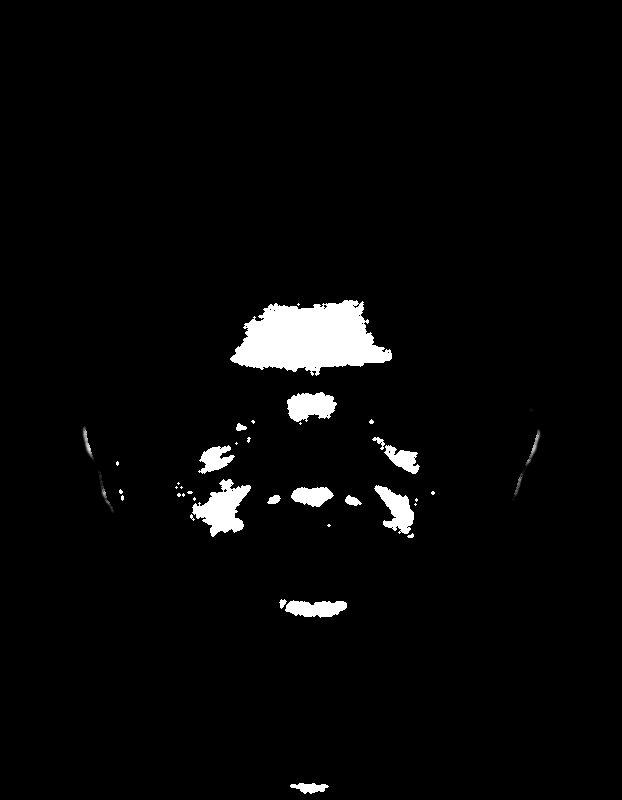
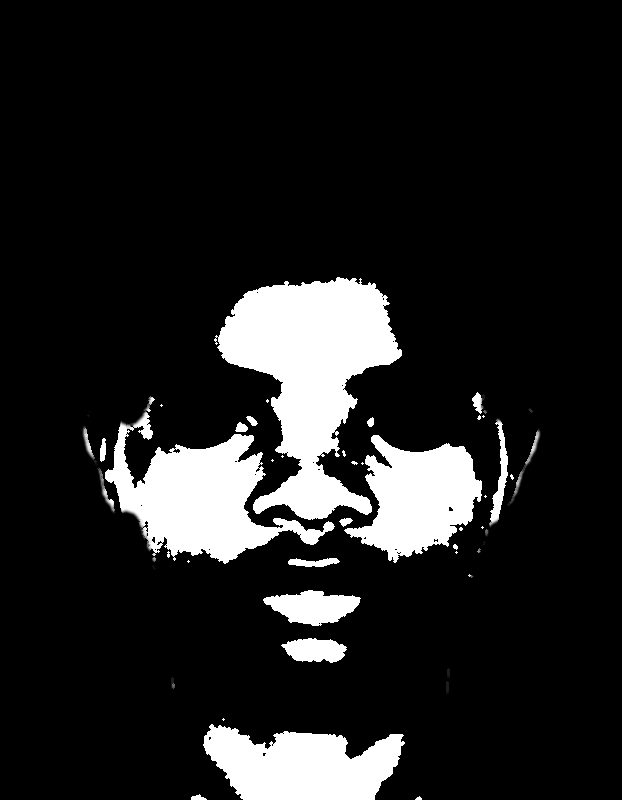
Refined threshold values to work on most cases and added test photos

diff --git a/remove_skin_reflections.py b/remove_skin_reflections.py
@@ -275,8 +275,8 @@ def detect_highlights(image, skin_mask, eye_mask=None):
     highlight_mask = np.zeros_like(gray)
     
     # Threshold for brightness (adjust these values if needed)
-    brightness_threshold = 200  # V channel threshold
-    saturation_threshold = 100   # S channel threshold (low saturation)
+    brightness_threshold = 180  # V channel threshold
+    saturation_threshold = 200   # S channel threshold (low saturation)
     
     # Create highlight mask based on high brightness and low saturation
     highlight_mask = ((v > brightness_threshold) & (s < saturation_threshold)).astype(np.uint8) * 255
